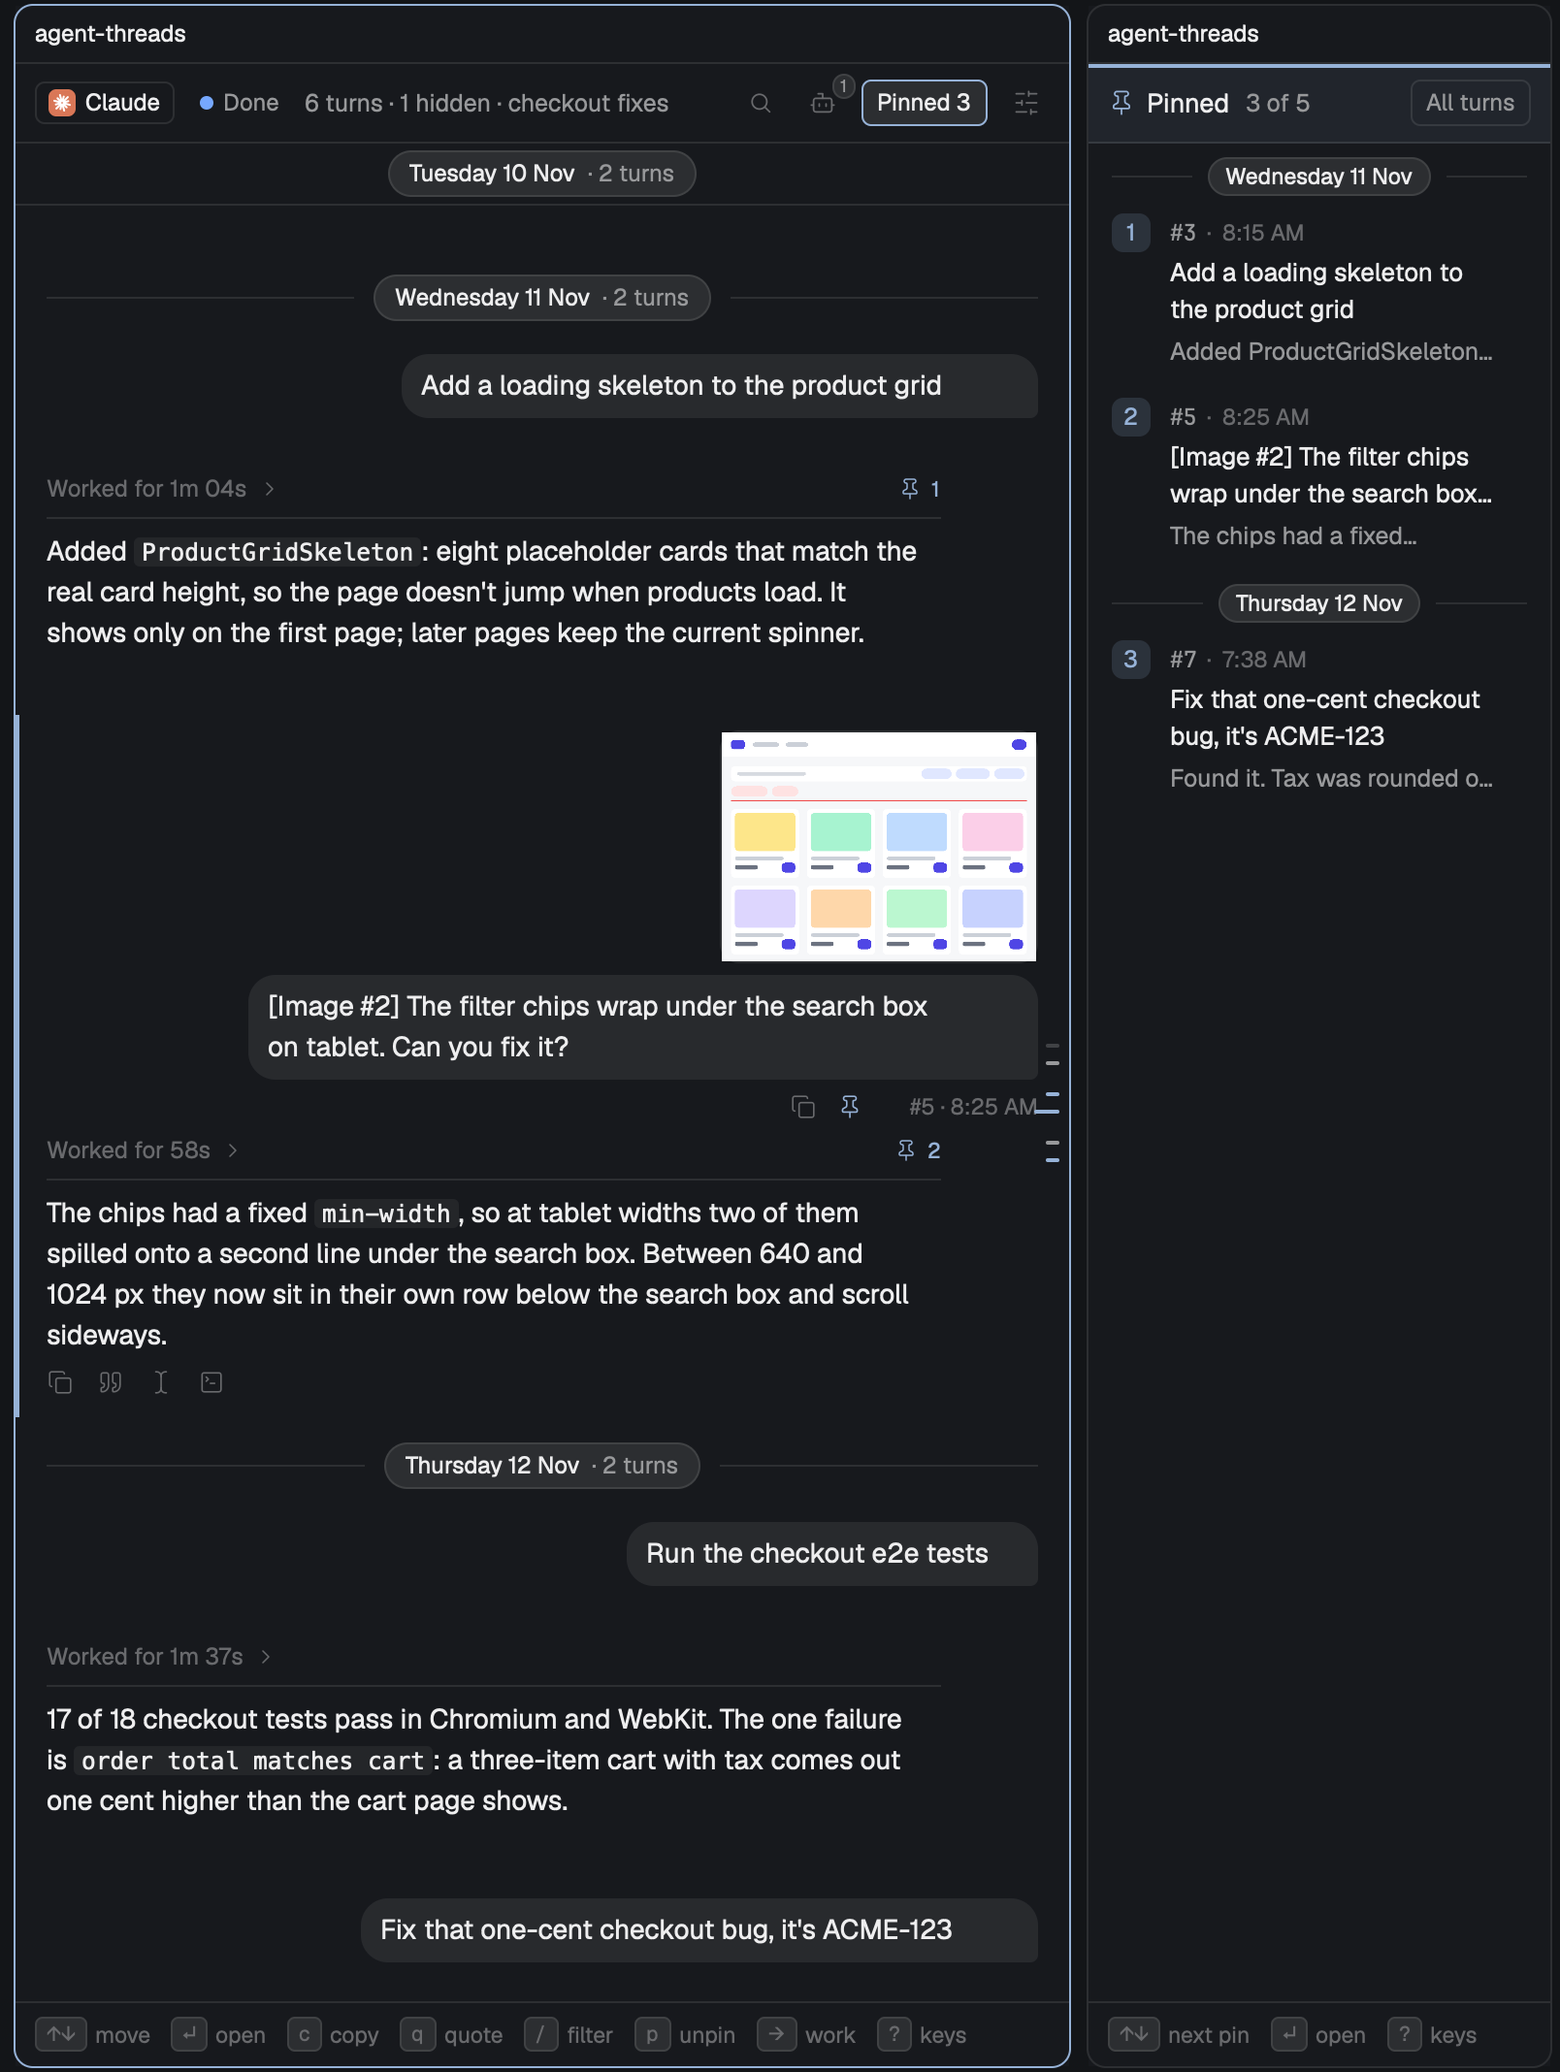
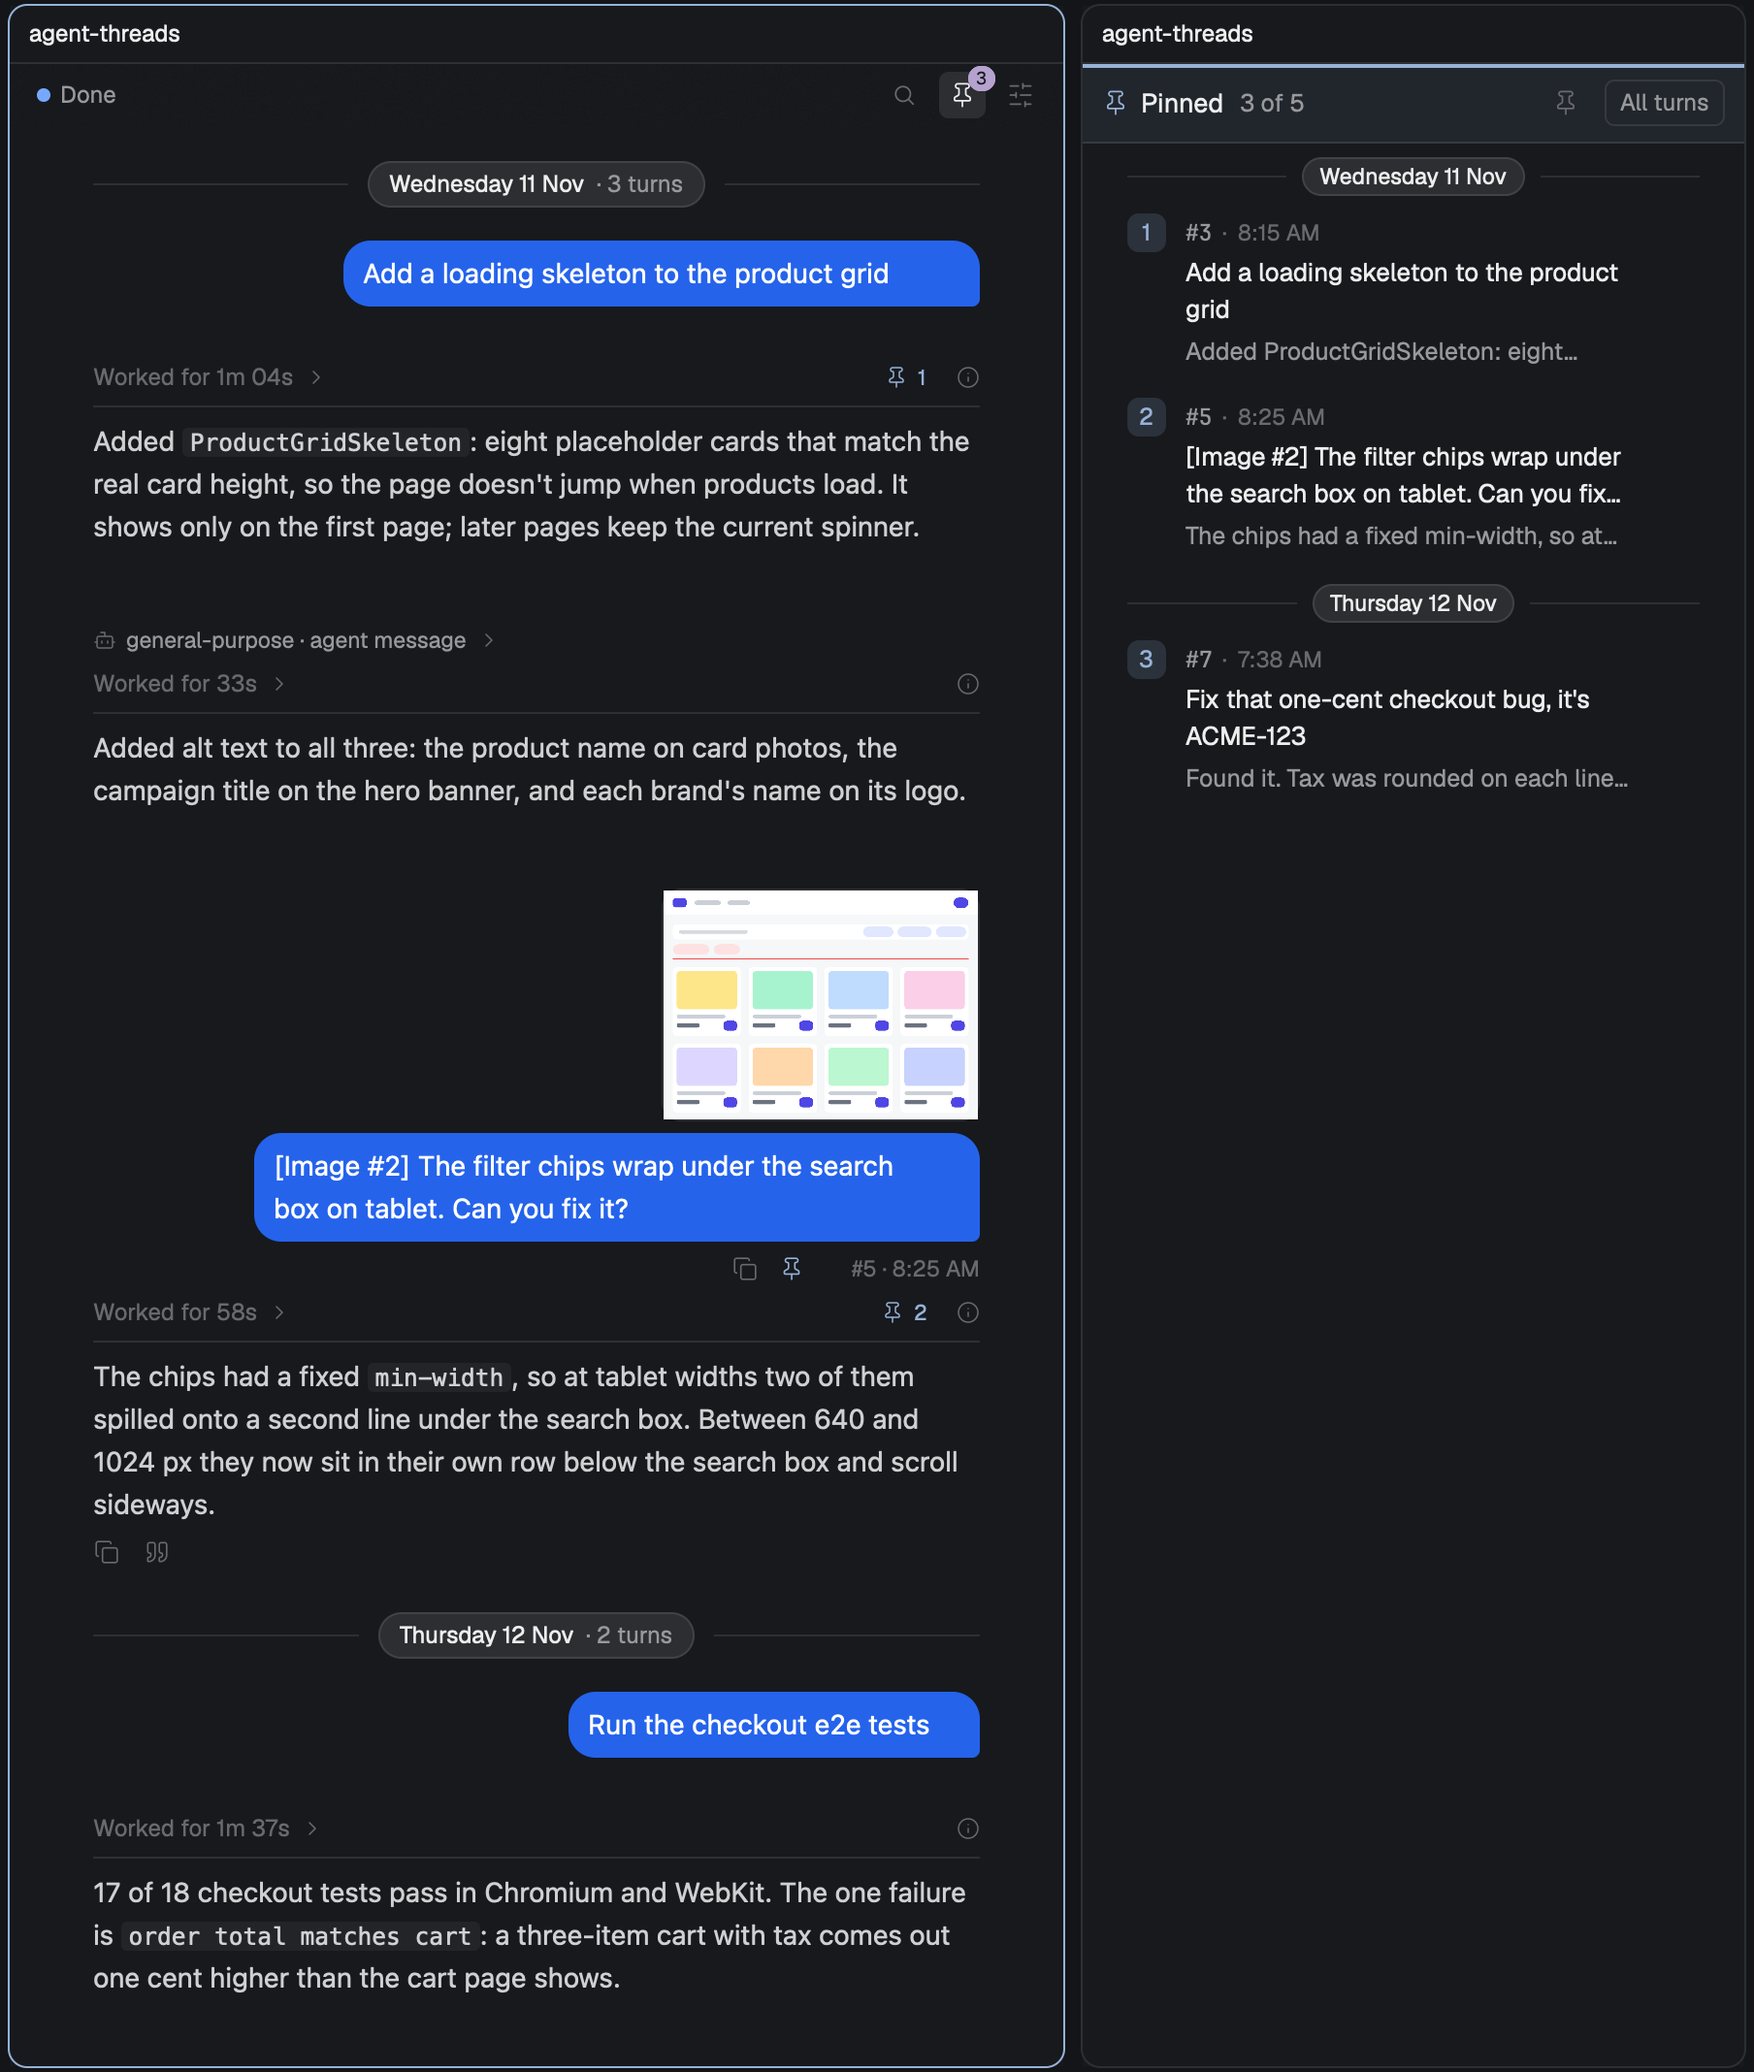
docs: retake the 17 pictures for 1.0 from rc-1
Taken on Herdr 0.1.16 from rc-1 (d218941) with the 1.0 defaults: blue
user bubbles, amber agent bubbles, no key-hints row, no header chips.
develop.md: days.png uses debugDayPill, viewer.png one press on a tile,
the stand-in must be named claude, pinned and open-turn crops moved.
scan-approved.txt pins the new hashes; the owner still has to approve them.

diff --git a/docs/develop.md b/docs/develop.md
@@ -77,15 +77,15 @@ Start each shot from a fresh launch with the window size set in `window.json`, w
 |---|---|---|---|
 | `preview.png` | 1460x1150, `render.py` running | `open` | `552 96 2912 2232` |
 | `panel.png` | the same shot | | `1808 96 2912 2232` |
-| `open-turn.png` | the same shot | | `1808 1140 2912 2090` |
+| `open-turn.png` | the same shot | | `1808 1140 2912 2064`, which ends under the code block so no line is cut |
 | `light.png` | 1460x1150, `"appearance": "light"` in `settings.json` and `--light` on `render.py` | `open` | `552 96 2912 2232` |
-| `days.png` | 1460x1150, `days.jsonl` | `search:#3`, `open`, `open`, so the list scrolls into the first day and its pill sits in the strip | `1808 96 2912 2232` |
+| `days.png` | 1460x1150, `"debug": true`, `days.jsonl` | `search:#3`, `open`, `open`, `debugDayPill`, so the list is in the first day and its pill shows at the top for the shot (it goes 1.5 s after a scroll otherwise) | `1808 96 2912 2232` |
 | `search.png` | 1460x700 | `search:tests` | `1808 96 2912 1332` |
 | `images.png` | 1460x1150, `"debug": true` | `search:#5`, `open`, `open`, `debugClick:500:imgs:0:5` | `1808 242 2912 2232`, below the header, which shows timings in debug |
-| `viewer.png` | 1460x1150, `"debug": true`, a `pair` transcript (`make-hero.js pair.jsonl … pair`, two images on turn 5 and a reply with a list, code and a table for the reading panel) | `search:#5`, `open`, `open`, `debugClick:500:imgs:0:5`, `debugClick:300:img:0:5:0` | none, the whole window |
+| `viewer.png` | 1460x1150, `"debug": true`, a `pair` transcript (`make-hero.js pair.jsonl … pair`, two images on turn 5 and a reply with a list, code and a table for the reading panel) | `search:#5`, `open`, `open`, `debugClick:300:imgs:0:5` (a press on the first tile opens the viewer; there is no `img:` press any more) | none, the whole window |
 | `agent-messages.png` | 1460x1150 | `agents:on`, `search:#4`, `open`, `open`, then `agents:off` after the shot | `1808 96 2912 2232` |
 | `quote.png` | 1460x1150, `"debug": true`, `render.py` running | `search:#6`, `open`, `open`, `debugQuote` | `552 1418 2912 2232` |
-| `pinned.png` | 1760x1150, a `days` transcript started two days before the shot (`make-hero.js pdays.jsonl … <two days ago>T15:05:00Z days`), so the pins span Yesterday and Today and show oldest first (#3, #5, #7) | `search:#3`, `open`, `pin`, `search:#7`, `open`, `pin`, `search:#5`, `open`, `pin` | `1904 96 3512 2232` |
+| `pinned.png` | 1760x1150, a `days` transcript started two days before the shot (`make-hero.js pdays.jsonl … <two days ago>T15:05:00Z days`), so the pins span Yesterday and Today and show oldest first (#3, #5, #7) | `search:#3`, `open`, `pin`, `search:#7`, `open`, `pin`, `search:#5`, `open`, `pin` | `1704 96 3512 2232` |
 | `updating.png` | 1460x1150, a `wake` transcript written just before (`make-hero.js wake.jsonl … wake`) and `printf '\033]7501;state=working:app=claude-code\007'` in the stand-in's screen | `latest` | `1808 96 2912 2232` |
 | `keys.png` | 1460x1150 | `keys` | `1808 96 2912 2232` |
 | `work.png` | 1460x1150, `"debug": true`, a transcript made with the cwd `/home/dev/acme-web` (`make-hero.js herodev.jsonl /home/dev/acme-web …`), because level 3 shows each call's whole file path | `search:#7`, `escape`, `deeper`, `deeper`, `debugClick:100:cl:0:7:0:4`, so turn 7's line and its run open and the test command's output shows | `1808 242 2912 2232`, below the header, which shows timings in debug |
@@ -93,6 +93,8 @@ Start each shot from a fresh launch with the window size set in `window.json`, w
 | `width.png` | 1760x1150, `"readingWidth": false` in `settings.json`, Threads resized to 960 px | `open` | `1578 96 3512 2232` |
 | `agents.png` | 1460x720, the pane's `transcript` set to each file `make-agents.js` printed; for Amp, a terminal running a program named `amp` (a copy of `sleep` will do) and a Threads pane with no `transcript` | `first`, `open` | `1808 96 2912 1372` each, in a 3 by 2 grid (Codex, OpenCode, Pi, then Cursor, Antigravity, Amp) 20 px apart on `#0f1012` |
 
-`quote.png`, `images.png` and `work.png` need `"debug": true` in the props, because `debugQuote` and `debugClick` run only with it, and debug adds a timing text to the pane header, which those crops leave out. `agents:on` saves to settings, so turn it off before the next shot.
+The stand-in has to run as a program named `claude` (copy the build to `bin/claude`), or Threads does not treat the terminal as Claude Code and a quote does not paste. Use the 1.0 defaults for every shot (the settings file holds only the two link rules): blue user bubbles, amber agent bubbles, and no key-hints row, so `keys.png` is reached with the `keys` command (the `?` key).
+
+`quote.png`, `images.png`, `days.png` and `work.png` need `"debug": true` in the props, because `debugQuote` and `debugClick` run only with it, and debug adds a timing text to the pane header, which those crops leave out. `agents:on` saves to settings, so turn it off before the next shot.
 
 After changing an image, run `sh test/scan-private.sh` with its line removed from `test/scan-approved.txt`, so OCR reads it, and pin the new hash only once the owner has approved it.
